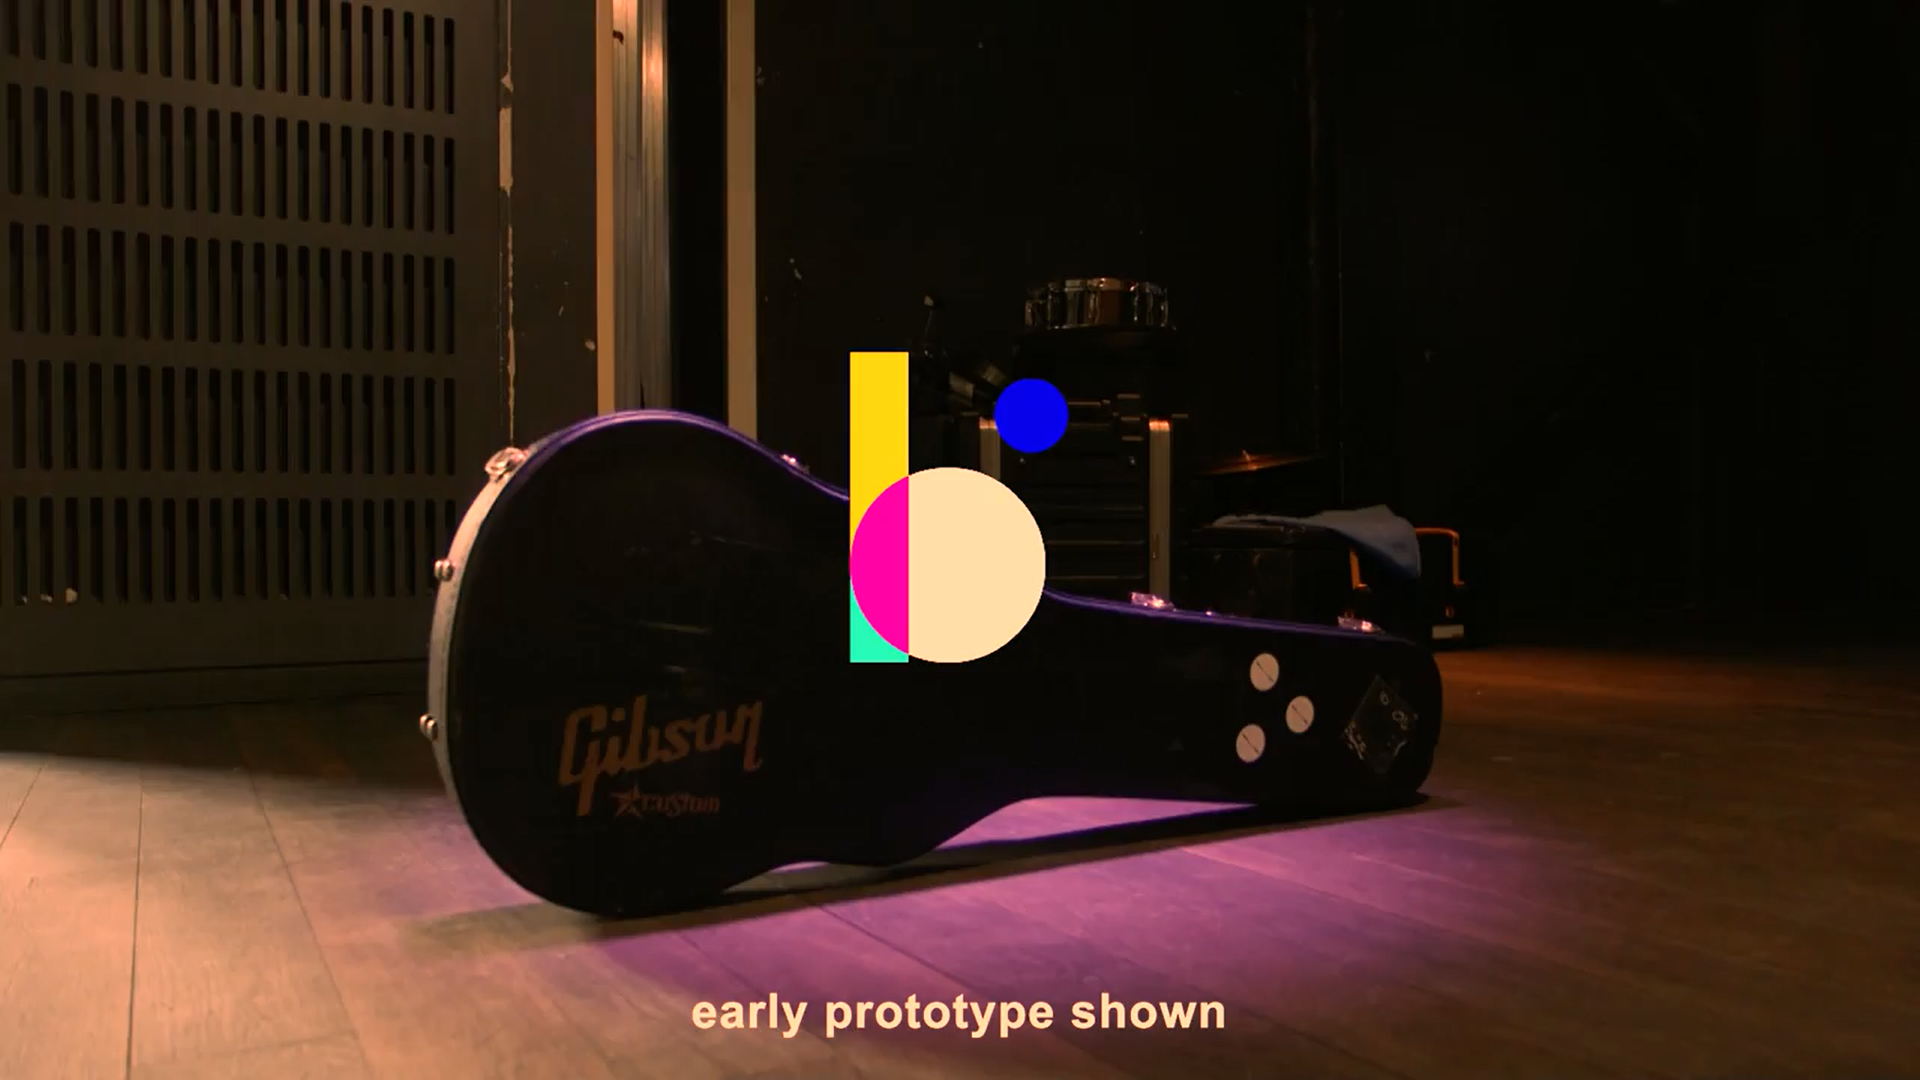
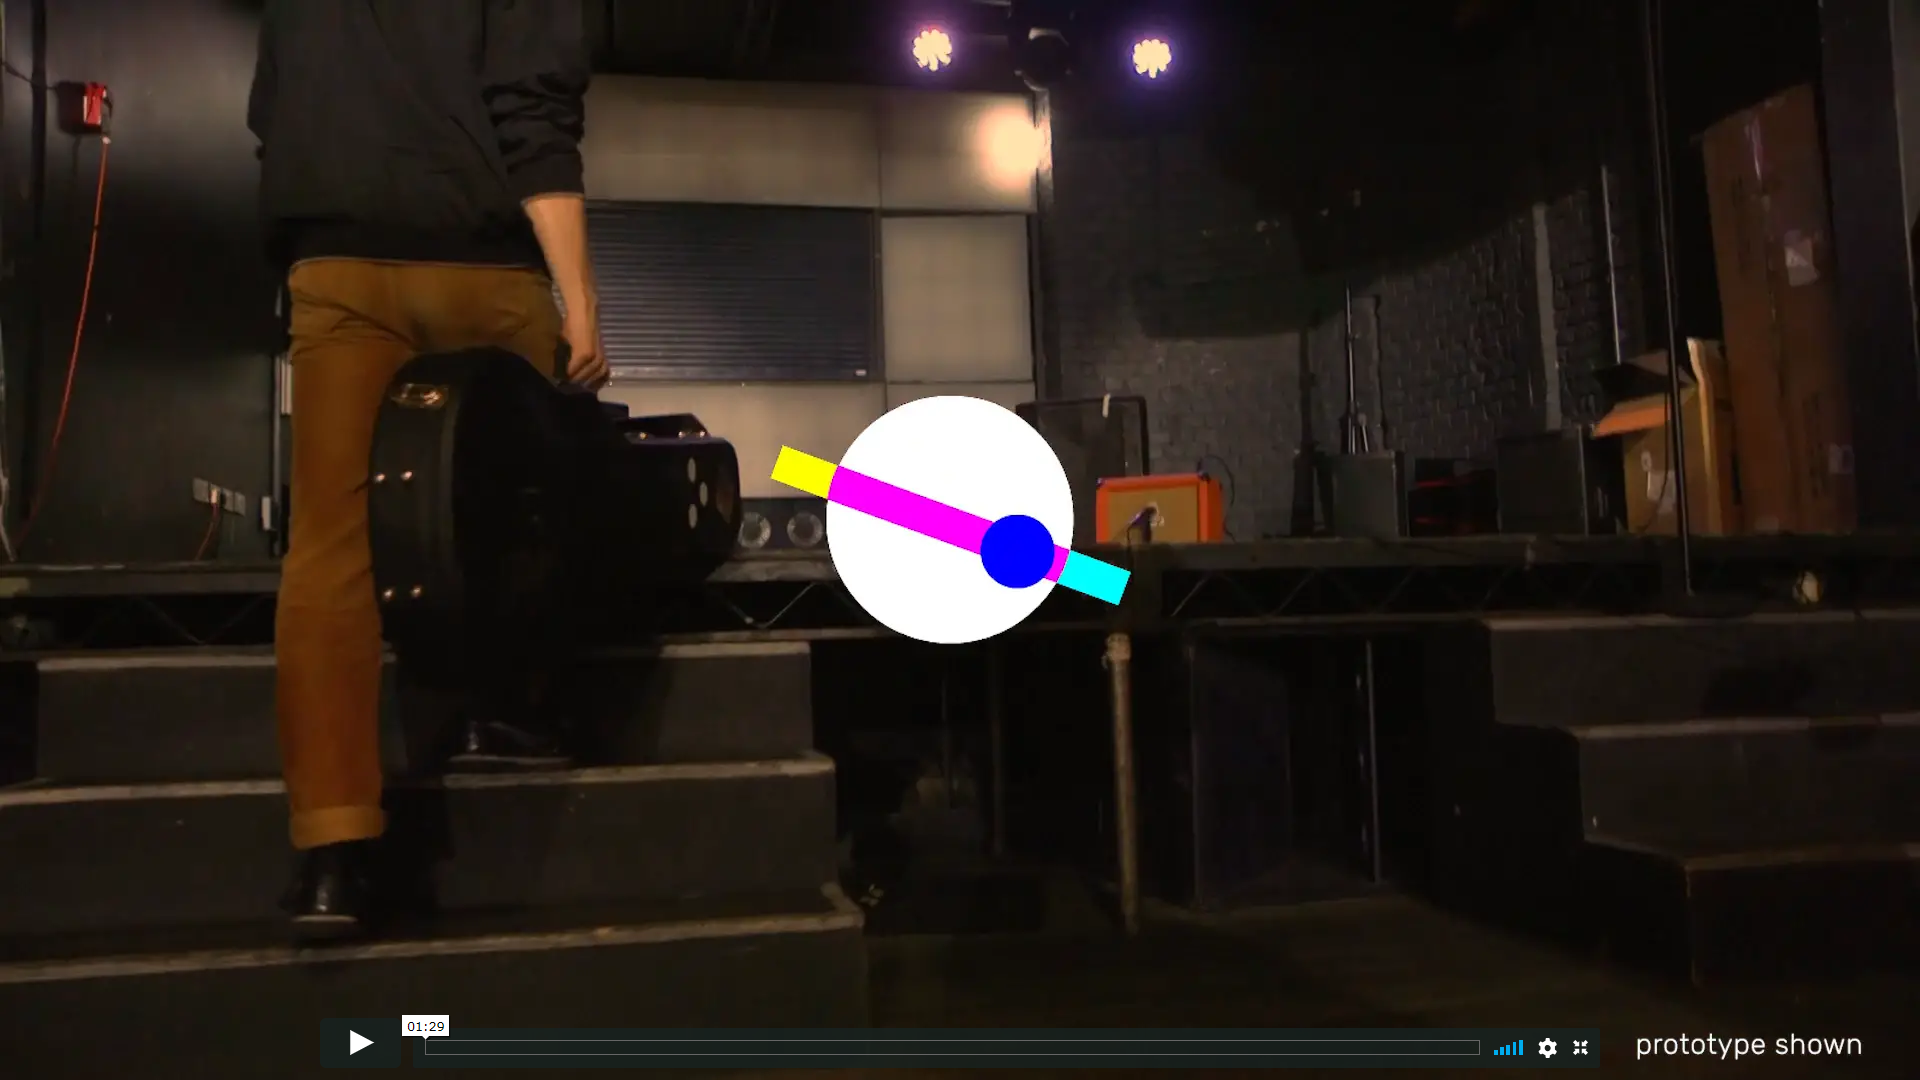
New promo thumbnail

diff --git a/docs/index.html b/docs/index.html
@@ -73,7 +73,7 @@
   <!-- Header -->
   <header>
     <div class="embed-responsive">
-      <iframe src="https://player.vimeo.com/video/320449822?autoplay=1&title=0&byline=0&portrait=0"  frameborder="0" webkitallowfullscreen mozallowfullscreen allowfullscreen></iframe>
+      <iframe src="https://player.vimeo.com/video/320449822" frameborder="0" webkitallowfullscreen mozallowfullscreen allowfullscreen></iframe>
       <img class="img-fluid" src="img/public/promo_vid_thumbnail.png" alt="">
     </div>
   </header>
